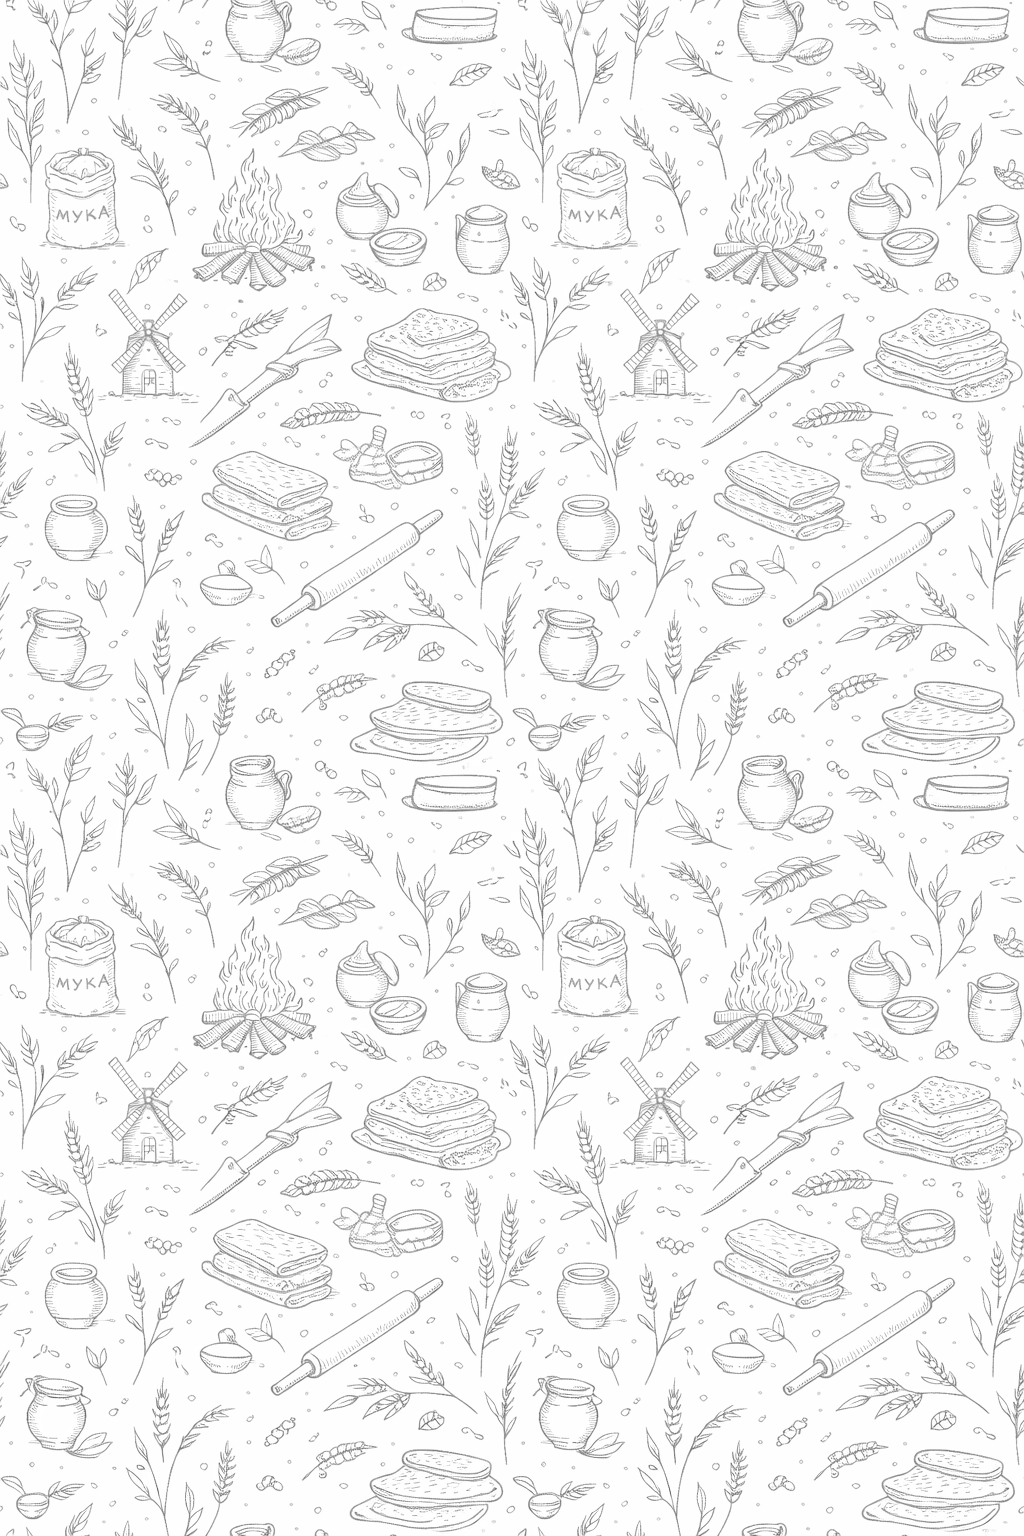
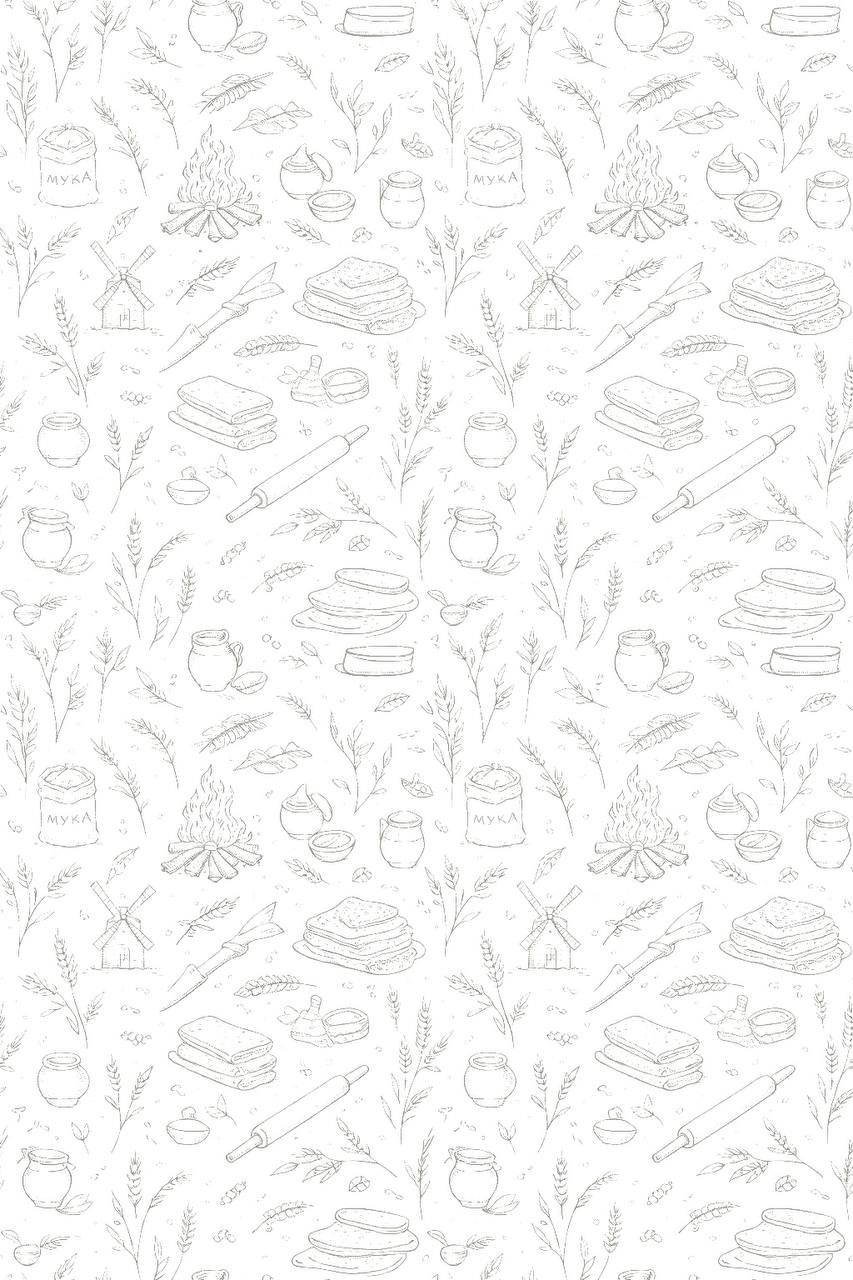
upd

diff --git a/styles.css b/styles.css
@@ -15,7 +15,7 @@ body, button {
 }
 body {
     height: 100%;
-    background: url("background.png") center/80% repeat;
+    background: url("background.png") center/18rem repeat;
 }
 button {
     background: transparent;
@@ -122,7 +122,8 @@ a:active, button:active { transform: scale(0.85); }
 .q-btn {
     background-color: #4C4C4C;
     color: #ffffff;
-    padding: 0.6rem;
+    width: 5.4rem;
+    padding: 0.5rem 0;
     border-radius: 1rem;
     margin: 0.2rem 0;
     font-size: 0.9rem;
@@ -146,8 +147,8 @@ a:active, button:active { transform: scale(0.85); }
 .value { font-size: 1.5rem; }
 .sub { font-size: 0.6rem; text-shadow: 0 0 2px #aa552d;}
 .hide {
-    background-color: #00000050;
-    backdrop-filter: blur(4px);
+    background-color: #00000060;
+    backdrop-filter: blur(2px);
     transform: scale(0.95) translateX(-0.8rem);
 }
 
